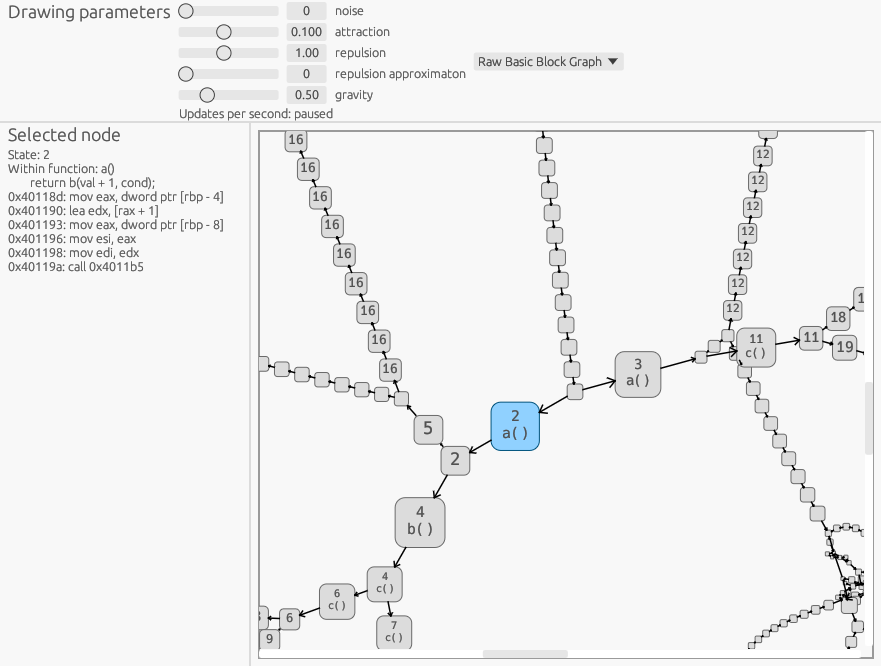
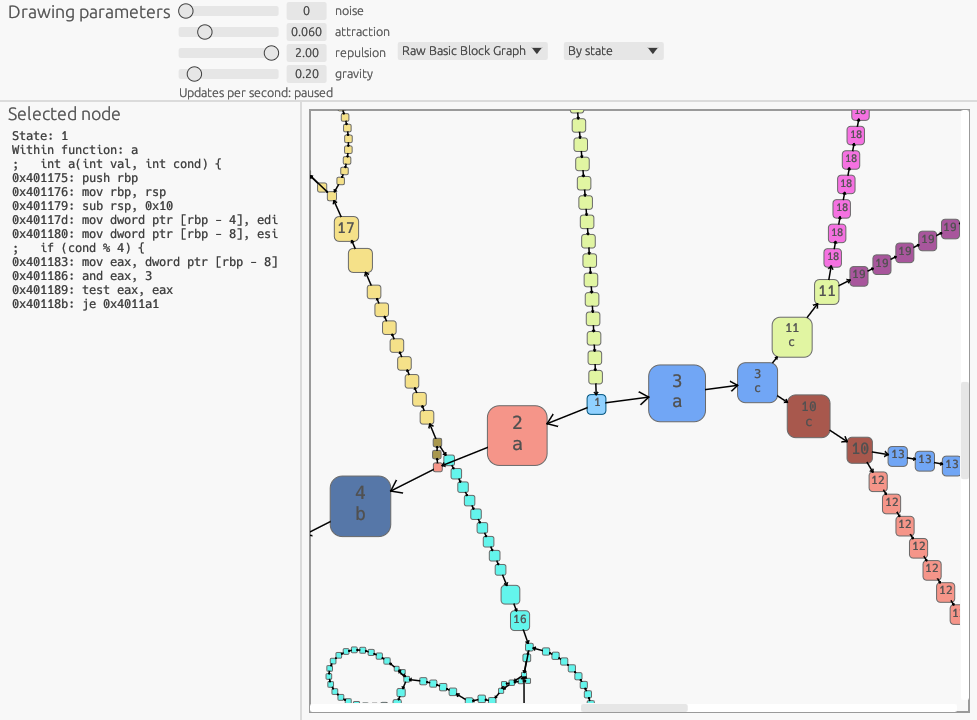
report/amba: new figures, write about merged graphs

diff --git a/doc/report/amba/main.tex b/doc/report/amba/main.tex
@@ -25,9 +25,6 @@ i och den disassemblerade maskinkoden. Om binären innehåller debugdata visas
 även funktionsnamn och om både debugdata och källkoden är tillgänglig visas de
 källkodsrader som gett upphov till maskinkoden.
 
-TODO skriv om den oimplementerade grafhomomorfism-glöm-state-grafen om vi hinner
-implementera den TODO
-
 \begin{figure}
     \centering
     \includegraphics[width=0.7\textwidth]{figures/graph_block_compressed.png}
@@ -58,6 +55,37 @@ branch som görs baserat på ett symboliskt uttryck. Sidopanelen visar
 tillståndets namn samt det grennummer som identiferar det föränderliga
 tillståndet i \stoe{}. Då föräldrar inte kan samexistera i tid med sina barn
 använder \stoe{} grennummer för att hänvisa till nu körande tillstånd.
+
+\begin{figure}
+    \centering
+    \includegraphics[width=0.7\textwidth]{figures/graph_merged.png}
+    \caption{
+        AMBAs sammanslagna basic-block-graf för testprogrammet control-flow
+    }\label{fig:graf-merged}
+\end{figure}
+
+Den fjärde grafen är en sammanslagen basic-block-graf, som visar basic-block
+utan att delas vid tillståndsdelning. Precist uttryckt är det grafen som bildas
+från den första grafen, efter att varje par av noder vars metadata endast
+skiljer i det symboliska tillståndet ersatts med en nod kopplad till unionen av
+de ursprungliga nodernas kanter. Figur~\ref{fig:graf-merged} visar ett exempel.
+
+\begin{figure}
+    \centering
+    \includegraphics[width=0.7\textwidth]{figures/graph_merged_compressed.png}
+    \caption{
+        AMBAs komprimerade sammanslagna basic-block-graf för testprogrammet control-flow
+    }\label{fig:graf-merged-compressed}
+\end{figure}
+
+Den femte och sista grafen är en komprimerad sammanslagen basic-block-graf,
+vilken konstrueras från den sammanslagna basic-block-grafen genom samma
+kompression som i komprimerade block-block-grafen.
+Figur~\ref{fig:graf-merged-compressed} visar ett exempel.
+
+De två första graferna, alltså de komprimerade och okomprimerade
+basic-block-graferna, kan färgläggas utifrån symboliska tillstånd och starkt
+anslutna komponenter.
 
 Utöver att visa dessa grafer går det också att välja noder i den symboliska
 tillståndsgrafen för att prioritera deras fortsatta evaulering. Detta gör det
